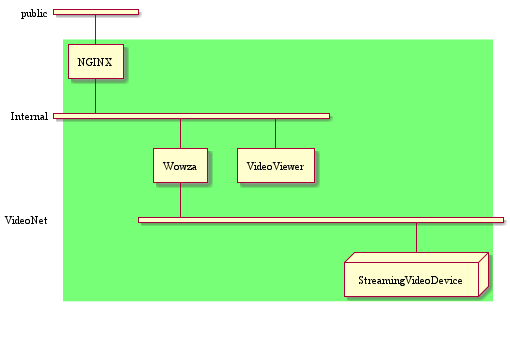
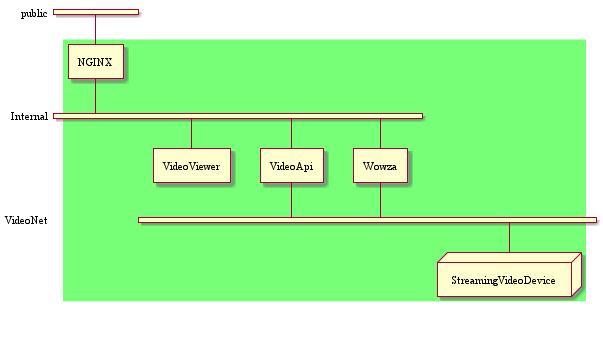
Added Api server with communication to live video streaming devices. Added buttons to live page to allow start/stop of video.

diff --git a/src/StreamingVideoDevice/Program.cs b/src/StreamingVideoDevice/Program.cs
@@ -1,4 +1,6 @@
-using System;
+using NetMQ;
+using NetMQ.Sockets;
+using System;
 using System.Diagnostics;
 using System.Threading;
 
@@ -8,17 +10,53 @@ namespace StreamingVideoDevice
     {
         static void Main(string[] args)
         {
-            for (int i = 0; i < 100; ++i)
+            Process videoLoop = null;
+            using (var commandSocket = new PullSocket("@tcp://StreamingVideoDevice:5558"))
             {
-                using (var vid = new Process())
+                while (true)
                 {
-                    vid.StartInfo.FileName = "ffmpeg";
-                    vid.StartInfo.Arguments = "-re -i /Videos/sample.mp4 -c copy -f flv rtmp://wowza:1935/live/myStream";
-                    vid.StartInfo.UseShellExecute = true;
-                    vid.Start();
-                    vid.WaitForExit();
+                    string msg = commandSocket.ReceiveFrameString();
+                    if (msg == "Start")
+                    {
+                        if (videoLoop == null)
+                        {
+                            videoLoop = StartVideo();
+                        }
+                    }
+                    else
+                    {
+                        StopVideo(videoLoop);
+                        videoLoop = null;
+                    }
                 }
-                Thread.Sleep(1000);
+            }
+        }
+
+        private static Process StartVideo()
+        {
+            var vid = new Process();
+            vid.StartInfo.FileName = "ffmpeg";
+            vid.StartInfo.Arguments = "-re -i /Videos/sample.mp4 -c copy -f flv rtmp://wowza:1935/live/myStream";
+            vid.StartInfo.UseShellExecute = true;
+            vid.EnableRaisingEvents = true;
+            vid.Exited += (o, e) =>
+            {
+                if (o is Process)
+                {
+                    var myProc = o as Process;
+                    myProc.Start();
+                }
+            };
+            vid.Start();
+
+            return vid;
+        }
+        private static void StopVideo(Process vidProcess)
+        {
+            if (vidProcess != null)
+            {
+                vidProcess.Kill();
+                vidProcess.Dispose();
             }
         }
     }

diff --git a/src/VideoApi/Startup.cs b/src/VideoApi/Startup.cs
@@ -1,16 +1,18 @@
 using System;
 using System.Collections.Generic;
 using System.Linq;
-using System.Net.Http;
 using System.Threading.Tasks;
 using Microsoft.AspNetCore.Builder;
 using Microsoft.AspNetCore.Hosting;
 using Microsoft.AspNetCore.HttpsPolicy;
+using Microsoft.AspNetCore.Mvc;
 using Microsoft.Extensions.Configuration;
 using Microsoft.Extensions.DependencyInjection;
 using Microsoft.Extensions.Hosting;
+using Microsoft.Extensions.Logging;
+using NetMQ.Sockets;
 
-namespace VideoViewer
+namespace VideoApi
 {
     public class Startup
     {
@@ -24,8 +26,8 @@ namespace VideoViewer
         // This method gets called by the runtime. Use this method to add services to the container.
         public void ConfigureServices(IServiceCollection services)
         {
-            services.AddSingleton(new HttpClient() { BaseAddress = new Uri("http://videoapi/api") });
-            services.AddRazorPages();
+            services.AddSingleton(new PushSocket(">tcp://StreamingVideoDevice:5558"));
+            services.AddControllers();
         }
 
         // This method gets called by the runtime. Use this method to configure the HTTP request pipeline.
@@ -35,15 +37,8 @@ namespace VideoViewer
             {
                 app.UseDeveloperExceptionPage();
             }
-            else
-            {
-                app.UseExceptionHandler("/Error");
-                // The default HSTS value is 30 days. You may want to change this for production scenarios, see https://aka.ms/aspnetcore-hsts.
-                app.UseHsts();
-            }
 
-            app.UseHttpsRedirection();
-            app.UseStaticFiles();
+            //app.UseHttpsRedirection();
 
             app.UseRouting();
 
@@ -51,7 +46,7 @@ namespace VideoViewer
 
             app.UseEndpoints(endpoints =>
             {
-                endpoints.MapRazorPages();
+                endpoints.MapControllers();
             });
         }
     }

diff --git a/src/VideoApi/Controllers/DeviceController.cs b/src/VideoApi/Controllers/DeviceController.cs
@@ -1,0 +1,53 @@
+using System;
+using System.Collections.Generic;
+using System.Linq;
+using System.Threading.Tasks;
+using Microsoft.AspNetCore.Http;
+using Microsoft.AspNetCore.Mvc;
+using NetMQ;
+using NetMQ.Sockets;
+
+namespace VideoApi.Controllers
+{
+    [Route("api/[controller]")]
+    [ApiController]
+    public class DeviceController : ControllerBase
+    {
+        PushSocket commandSocket_;
+        public DeviceController(PushSocket commandSocket)
+        {
+            commandSocket_ = commandSocket;
+        }
+        // GET: api/Device
+        [HttpGet]
+        public IEnumerable<string> Get()
+        {
+            return new string[] { "value1", "value2" };
+        }
+
+        // GET: api/Device/5
+        [HttpGet("{id}", Name = "Get")]
+        public string Get(int id)
+        {
+            return "value";
+        }
+
+        // POST: api/Device
+        [HttpPost]
+        public void Post([FromBody] string value)
+        {
+        }
+        // POST: api/Device
+        [HttpPost("{id}/{command}")]
+        public void Post(int id, string command)
+        {
+            //using (var commandSocket = new PushSocket(">tcp://StreamingVideoDevice:5558"))
+            {
+                if(command=="Start")
+                    commandSocket_.SendFrame("Start");
+                else if(command=="Stop")
+                    commandSocket_.SendFrame("Stop");
+            }
+        }
+    }
+}

diff --git a/src/VideoViewer/Pages/Live.cshtml.cs b/src/VideoViewer/Pages/Live.cshtml.cs
@@ -1,17 +1,31 @@
 using System;
-using System.Collections.Generic;
-using System.Linq;
-using System.Threading.Tasks;
-using Microsoft.AspNetCore.Mvc;
+using System.Net.Http;
 using Microsoft.AspNetCore.Mvc.RazorPages;
 
 namespace VideoViewer.Pages
 {
     public class LiveModel : PageModel
     {
+        private HttpClient apiClient_;
+
+        public LiveModel(HttpClient apiClient)
+        {
+            apiClient_ = apiClient;
+        }
         public void OnGet()
         {
 
+        }
+        public void OnPost(int id)
+        {
+            if (id == 2)
+            {
+                apiClient_.PostAsync("api/device/1/Start", new StringContent("")).Wait();
+            }
+            else
+            {
+                apiClient_.PostAsync("api/device/1/Stop", new StringContent("")).Wait();
+            }
         }
     }
 }

diff --git a/src/VideoApi/Program.cs b/src/VideoApi/Program.cs
@@ -1,0 +1,26 @@
+using System;
+using System.Collections.Generic;
+using System.Linq;
+using System.Threading.Tasks;
+using Microsoft.AspNetCore.Hosting;
+using Microsoft.Extensions.Configuration;
+using Microsoft.Extensions.Hosting;
+using Microsoft.Extensions.Logging;
+
+namespace VideoApi
+{
+    public class Program
+    {
+        public static void Main(string[] args)
+        {
+            CreateHostBuilder(args).Build().Run();
+        }
+
+        public static IHostBuilder CreateHostBuilder(string[] args) =>
+            Host.CreateDefaultBuilder(args)
+                .ConfigureWebHostDefaults(webBuilder =>
+                {
+                    webBuilder.UseStartup<Startup>();
+                });
+    }
+}
